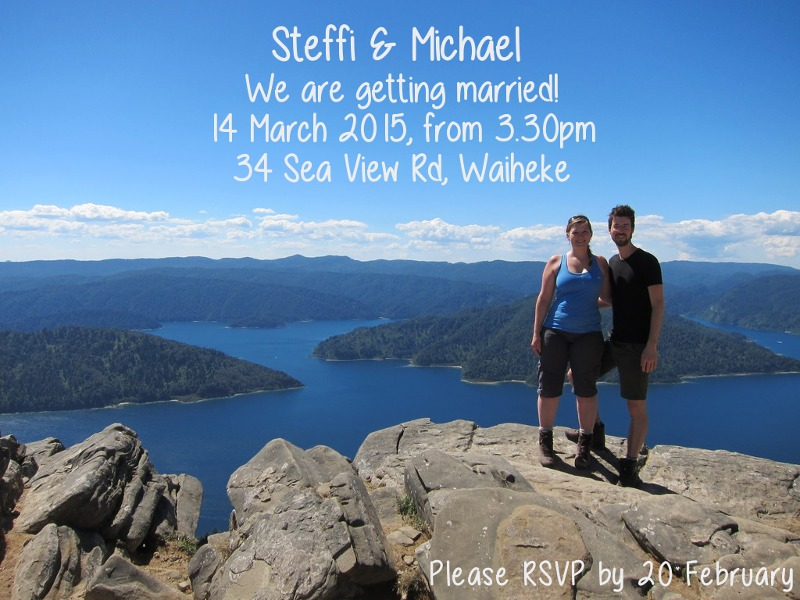
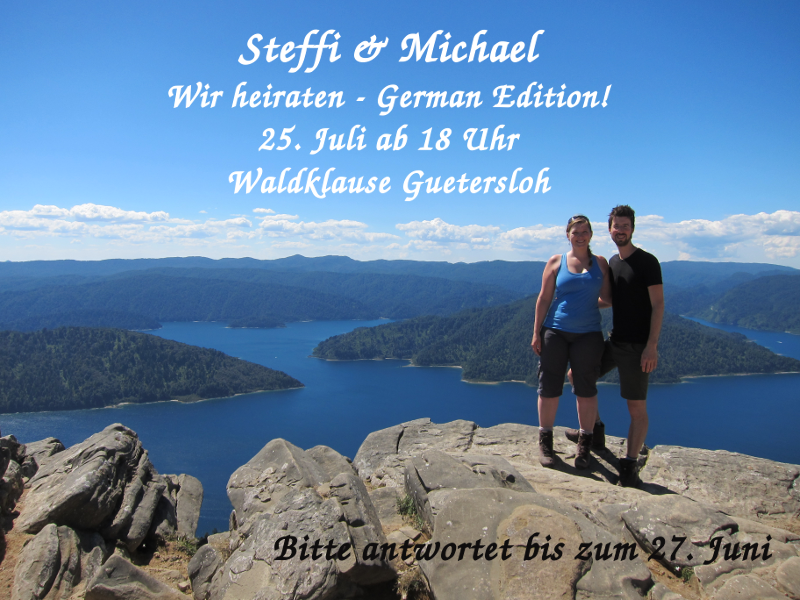
deutsche seite

Changed region(s): [[0.2188, 0.03, 0.7812, 0.33], [0.3438, 0.87, 1.0, 0.99]]

diff --git a/index.html b/index.html
@@ -69,10 +69,10 @@
 							<ul class="sf-menu">
 								<li class="current men"><a onClick="goToByScroll('page1'); return false;" href="#">Top</a> <strong class="hover"></strong></li>
 								<li class="men1"><a onClick="goToByScroll('page2'); return false;" href="#">10 Jahre</a> <strong class="hover"></strong></li>
-								<li class="men3"><a onClick="goToByScroll('page3'); return false;" href="#">Wo und wann</a><strong class="hover"></strong></li>
-								<li class="men6"><a onClick="goToByScroll('page4'); return false;" href="#">Geschenke</a> <strong class="hover"></strong></li>
-								<li class="men7"><a onClick="goToByScroll('page5'); return false;" href="#">Kontakt</a> <strong class="hover"></strong></li>
-								<li class="men8"><a onClick="goToByScroll('page6'); return false;" href="#">Antwort (RSVP)</a> <strong class="hover"></strong></li>
+								<li class="men3"><a onClick="goToByScroll('page3'); return false;" href="#">Hochzeit NZ</a><strong class="hover"></strong></li>
+								<li class="men3"><a onClick="goToByScroll('page4'); return false;" href="#">Hochzeit DE</a><strong class="hover"></strong></li>
+								<li class="men6"><a onClick="goToByScroll('page5'); return false;" href="#">Geschenke</a> <strong class="hover"></strong></li>
+								<li class="men7"><a onClick="goToByScroll('page6'); return false;" href="#">Antwort</a> <strong class="hover"></strong></li>
 							</ul>
 						</nav>
 						<div class="clear"></div>
@@ -114,21 +114,21 @@
                 <a href="images/big/2006-dsc00541.jpg" itemprop="contentUrl" data-size="1024x768">
                   <img src="images/thumbs/2006-dsc00541.jpg" itemprop="thumbnail" />
                 </a>
-                <figcaption itemprop="caption description">2006 - erster gemeinsamer Urlaub, Berchtesgarden</figcaption>
+                <figcaption itemprop="caption description">2006 - erster gemeinsamer Urlaub, Berchtesgaden</figcaption>
               </figure>
 
               <figure itemprop="associatedMedia" itemscope itemtype="http://schema.org/ImageObject">
                 <a href="images/big/2006-dsc00629.jpg" itemprop="contentUrl" data-size="1024x768">
                   <img src="images/thumbs/2006-dsc00629.jpg" itemprop="thumbnail" />
                 </a>
-                <figcaption itemprop="caption description">2006 - erster gemeinsamer Urlaub, Berchtesgarden</figcaption>
+                <figcaption itemprop="caption description">2006 - erster gemeinsamer Urlaub, Berchtesgaden</figcaption>
               </figure>
 
               <figure itemprop="associatedMedia" itemscope itemtype="http://schema.org/ImageObject">
                 <a href="images/big/2006-DSC08653.jpg" itemprop="contentUrl" data-size="1024x1365">
                   <img src="images/thumbs/2006-DSC08653.jpg" class="portrait" itemprop="thumbnail" />
                 </a>
-                <figcaption itemprop="caption description">2006 - Sylvester Themenfeier Nutten und Zuhaelter, Paderborn</figcaption>
+                <figcaption itemprop="caption description">2006 - Sylvester, Paderborn</figcaption>
               </figure>
 
               <figure itemprop="associatedMedia" itemscope itemtype="http://schema.org/ImageObject">
@@ -142,7 +142,14 @@
                 <a href="images/big/2007-cape-shank2.JPG" itemprop="contentUrl" data-size="1024x1365">
                   <img src="images/thumbs/2007-cape-shank2.JPG" class="portrait" itemprop="thumbnail" />
                 </a>
-                <figcaption itemprop="caption description">2007 - Cape Shank, Melbourne, Australia</figcaption>
+                <figcaption itemprop="caption description">2007 - Cape Shank, Melbourne, Australien</figcaption>
+              </figure>
+
+              <figure itemprop="associatedMedia" itemscope itemtype="http://schema.org/ImageObject">
+                <a href="images/big/2007-cape-shank.JPG" itemprop="contentUrl" data-size="1024x768">
+                  <img src="images/thumbs/2007-cape-shank.JPG" itemprop="thumbnail" />
+                </a>
+                <figcaption itemprop="caption description">2007 - Cape Shank, Melbourne, Australien</figcaption>
               </figure>
 
               <figure itemprop="associatedMedia" itemscope itemtype="http://schema.org/ImageObject">
@@ -153,17 +160,10 @@
               </figure>
 
               <figure itemprop="associatedMedia" itemscope itemtype="http://schema.org/ImageObject">
-                <a href="images/big/2007-cape-shank.JPG" itemprop="contentUrl" data-size="1024x768">
-                  <img src="images/thumbs/2007-cape-shank.JPG" itemprop="thumbnail" />
-                </a>
-                <figcaption itemprop="caption description">2007 - Cape Shank, Melbourne, Australia</figcaption>
-              </figure>
-
-              <figure itemprop="associatedMedia" itemscope itemtype="http://schema.org/ImageObject">
                 <a href="images/big/2007-DSC04332.JPG" itemprop="contentUrl" data-size="1024x768">
                   <img src="images/thumbs/2007-DSC04332.JPG" itemprop="thumbnail" />
                 </a>
-                <figcaption itemprop="caption description">2007 - Steffi's Geburtstagsfeier, Thema: Gedichte</figcaption>
+                <figcaption itemprop="caption description">2007 - Steffi's Geburtstagsfeier, Thema Maerchen</figcaption>
               </figure>
 
               <figure itemprop="associatedMedia" itemscope itemtype="http://schema.org/ImageObject">
@@ -177,7 +177,7 @@
                 <a href="images/big/2008-DSC06371.JPG" itemprop="contentUrl" data-size="1024x768">
                   <img src="images/thumbs/2008-DSC06371.JPG" itemprop="thumbnail" />
                 </a>
-                <figcaption itemprop="caption description">2008 - Victoriafaelle, Zambia</figcaption>
+                <figcaption itemprop="caption description">2008 - Victoriafaelle, Sambia</figcaption>
               </figure>
 
               <figure itemprop="associatedMedia" itemscope itemtype="http://schema.org/ImageObject">
@@ -191,7 +191,7 @@
                 <a href="images/big/2008-DSC08080.JPG" itemprop="contentUrl" data-size="1024x768">
                   <img src="images/thumbs/2008-DSC08080.JPG" itemprop="thumbnail" />
                 </a>
-                <figcaption itemprop="caption description">2008 - Versaille, Frankreich</figcaption>
+                <figcaption itemprop="caption description">2008 - Versailles, Frankreich</figcaption>
               </figure>
 
               <figure itemprop="associatedMedia" itemscope itemtype="http://schema.org/ImageObject">
@@ -205,7 +205,7 @@
                 <a href="images/big/2008-IMG_0854.JPG" itemprop="contentUrl" data-size="1024x768">
                   <img src="images/thumbs/2008-IMG_0854.JPG" itemprop="thumbnail" />
                 </a>
-                <figcaption itemprop="caption description">2008 - Geburtstagsfeier, Thema: Doppelganger, Hannover</figcaption>
+                <figcaption itemprop="caption description">2008 - Geburtstagsfeier, Thema Doppelgaenger, Bielefeld</figcaption>
               </figure>
 
               <figure itemprop="associatedMedia" itemscope itemtype="http://schema.org/ImageObject">
@@ -226,21 +226,21 @@
                 <a href="images/big/2009-P1020484.JPG" itemprop="contentUrl" data-size="1024x768">
                   <img src="images/thumbs/2009-P1020484.JPG" itemprop="thumbnail" />
                 </a>
-                <figcaption itemprop="caption description">2009 - Anden, Bolivia</figcaption>
+                <figcaption itemprop="caption description">2009 - Anden, Bolivien</figcaption>
               </figure>
 
               <figure itemprop="associatedMedia" itemscope itemtype="http://schema.org/ImageObject">
                 <a href="images/big/2010-DSC00316.JPG" itemprop="contentUrl" data-size="1024x1365">
                   <img src="images/thumbs/2010-DSC00316.JPG" class="portrait" itemprop="thumbnail" />
                 </a>
-                <figcaption itemprop="caption description">2010 - tschuess Deutschland, hello UK party, Verl</figcaption>
+                <figcaption itemprop="caption description">2010 - Tschuess Deutschland, Hello UK Party, Verl</figcaption>
               </figure>
 
               <figure itemprop="associatedMedia" itemscope itemtype="http://schema.org/ImageObject">
                 <a href="images/big/2009-mongoparty09_36.jpg" itemprop="contentUrl" data-size="1024x1678">
                   <img src="images/thumbs/2009-mongoparty09_36.jpg" class="portrait"  itemprop="thumbnail" />
                 </a>
-                <figcaption itemprop="caption description">2009 - Geburtstagsfeier, Thema: Zeichentrick, Hannover</figcaption>
+                <figcaption itemprop="caption description">2009 - Geburtstagsfeier, Thema Cartoons, Hannover</figcaption>
               </figure>
 
               <figure itemprop="associatedMedia" itemscope itemtype="http://schema.org/ImageObject">
@@ -275,7 +275,7 @@
                 <a href="images/big/2011-P1060305.JPG" itemprop="contentUrl" data-size="1024x1365">
                   <img src="images/thumbs/2011-P1060305.JPG" class="portrait" itemprop="thumbnail" />
                 </a>
-                <figcaption itemprop="caption description">2011 - Taj Mahal, Agra, India</figcaption>
+                <figcaption itemprop="caption description">2011 - Taj Mahal, Agra, Indien</figcaption>
               </figure>
 
               <figure itemprop="associatedMedia" itemscope itemtype="http://schema.org/ImageObject">
@@ -289,7 +289,7 @@
                 <a href="images/big/2012-P1070068.JPG" itemprop="contentUrl" data-size="1024x1365">
                   <img src="images/thumbs/2012-P1070068.JPG" class="portrait" itemprop="thumbnail" />
                 </a>
-                <figcaption itemprop="caption description">2012 - Hochzeit von Freunden, Verl</figcaption>
+                <figcaption itemprop="caption description">2012 - Kathi's und Andreas' Hochzeit, Verl</figcaption>
               </figure>
 
               <figure itemprop="associatedMedia" itemscope itemtype="http://schema.org/ImageObject">
@@ -317,14 +317,14 @@
                 <a href="images/big/2012-P1060911.JPG" itemprop="contentUrl" data-size="1024x768">
                   <img src="images/thumbs/2012-P1060911.JPG" itemprop="thumbnail" />
                 </a>
-                <figcaption itemprop="caption description">2012 - Skulpturen Wanderweg, Tawharanui, Neuseeland</figcaption>
+                <figcaption itemprop="caption description">2012 - Skulpturen-Wanderweg, Tawharanui, Neuseeland</figcaption>
               </figure>
 
               <figure itemprop="associatedMedia" itemscope itemtype="http://schema.org/ImageObject">
                 <a href="images/big/2013-DSC_1212.JPG" itemprop="contentUrl" data-size="1024x687">
                   <img src="images/thumbs/2013-DSC_1212.JPG" itemprop="thumbnail" />
                 </a>
-                <figcaption itemprop="caption description">2013 - Walbeobachten, Kaikoura, Neuseeland</figcaption>
+                <figcaption itemprop="caption description">2013 - Whale Watching, Kaikoura, Neuseeland</figcaption>
               </figure>
 
               <figure itemprop="associatedMedia" itemscope itemtype="http://schema.org/ImageObject">
@@ -373,7 +373,7 @@
                 <a href="images/big/2014-IMG_20140927_155834.jpg" itemprop="contentUrl" data-size="1024x1365">
                   <img src="images/thumbs/2014-IMG_20140927_155834.jpg" class="portrait" itemprop="thumbnail" />
                 </a>
-                <figcaption itemprop="caption description">2014 - Alpin-Schneetrainung, Mount Ruapehu, Neuseeland</figcaption>
+                <figcaption itemprop="caption description">2014 - Alpines Schneetraining, Mount Ruapehu, Neuseeland</figcaption>
               </figure>
 
               <figure itemprop="associatedMedia" itemscope itemtype="http://schema.org/ImageObject">
@@ -387,7 +387,7 @@
                 <a href="images/big/2014-IMG_3012.JPG" itemprop="contentUrl" data-size="1024x768">
                   <img src="images/thumbs/2014-IMG_3012.JPG" itemprop="thumbnail" />
                 </a>
-                <figcaption itemprop="caption description">2014 - Langtang trek, Nepal</figcaption>
+                <figcaption itemprop="caption description">2014 - Langtang Trek, Nepal</figcaption>
               </figure>
 
               <figure itemprop="associatedMedia" itemscope itemtype="http://schema.org/ImageObject">
@@ -408,7 +408,7 @@
                 <a href="images/big/2014-IMG_0141.JPG" itemprop="contentUrl" data-size="1024x768">
                   <img src="images/thumbs/2014-IMG_0141.JPG" itemprop="thumbnail" />
                 </a>
-                <figcaption itemprop="caption description">2014 - Steffi's PhD graduation, Auckland, Neuseeland</figcaption>
+                <figcaption itemprop="caption description">2014 - Steffi's PhD Graduation, Auckland, Neuseeland</figcaption>
               </figure>
 
               <figure itemprop="associatedMedia" itemscope itemtype="http://schema.org/ImageObject">
@@ -526,19 +526,133 @@
 		<div id="page3" class="content">
 			<div class="container_12">
 				<div class="grid_12">
-          <h3 style="background: url('images/1_accommodation.png') no-repeat 0px 0px; padding-left: 63px;">Wo und Wann</h3>
+          <h3 style="background: url('images/1_accommodation.png') no-repeat 0px 0px; padding-left: 63px;">Hochzeit in Neuseeland</h3>
 						<div class="text1">
-              TODO The ceremony will start at 4pm. Please arrive at the venue by 3.30pm at the latest, which means taking the ferry from Auckland at 2pm or earlier. The ceremony will be followed by ice cream, drinks, dinner and dancing until around midnight.
-              You can find out about accommodation options on:
-              <ul>
-                <li><a href="http://www.bookabach.co.nz/baches-and-holiday-homes/search/locale/waiheke-island">Bookabach</a></li>
-                <li><a href="http://gotowaiheke.co.nz/listings/waiheke_accommodation/">Goto Waiheke</a></li>
-                <li><a href="http://kinabackpackers.co.nz/">Kina Backpackers</a></li>
-              </ul>
+              <p>
+                Am 14. Maerz 2015 (Pi Day) haben wir auf Waiheke Island bei Auckland YES gesagt :-) <br/>
+                Hier ein paar Eindruecke:
+              </p>
+            </div>
 
-              <br/>
-There is also an option for camping at the venue. Please let us know if
-you are interested in this in your RSVP.
+            <div class="my-simple-gallery" itemscope itemtype="http://schema.org/ImageGallery">
+              <figure itemprop="associatedMedia" itemscope itemtype="http://schema.org/ImageObject"> 
+                <a href="images/big/tt_SMP08_08.jpg" itemprop="contentUrl" data-size="685x1024"> 
+                  <img src="images/thumbs/tt_SMP08_08.jpg" itemprop="thumbnail" /> 
+                </a> 
+                <figcaption itemprop="caption description"></figcaption> 
+              </figure>
+
+              <figure itemprop="associatedMedia" itemscope itemtype="http://schema.org/ImageObject"> 
+                <a href="images/big/tt_SMP04_01.jpg" itemprop="contentUrl" data-size="685x1024"> 
+                  <img src="images/thumbs/tt_SMP04_01.jpg" itemprop="thumbnail" /> 
+                </a> 
+                <figcaption itemprop="caption description"></figcaption> 
+              </figure>
+
+              <figure itemprop="associatedMedia" itemscope itemtype="http://schema.org/ImageObject"> 
+                <a href="images/big/tt_SMP09_52.jpg" itemprop="contentUrl" data-size="685x1024"> 
+                  <img src="images/thumbs/tt_SMP09_52.jpg" itemprop="thumbnail" /> 
+                </a> 
+                <figcaption itemprop="caption description"></figcaption> 
+              </figure>
+
+              <figure itemprop="associatedMedia" itemscope itemtype="http://schema.org/ImageObject"> 
+                <a href="images/big/tt_SMP07_05.jpg" itemprop="contentUrl" data-size="1024x684"> 
+                  <img src="images/thumbs/tt_SMP07_05.jpg" itemprop="thumbnail" /> 
+                </a> 
+                <figcaption itemprop="caption description"></figcaption> 
+              </figure>
+
+              <figure itemprop="associatedMedia" itemscope itemtype="http://schema.org/ImageObject"> 
+                <a href="images/big/tt_SMP09_28.jpg" itemprop="contentUrl" data-size="1024x684"> 
+                  <img src="images/thumbs/tt_SMP09_28.jpg" itemprop="thumbnail" /> 
+                </a> 
+                <figcaption itemprop="caption description"></figcaption> 
+              </figure>
+
+              <figure itemprop="associatedMedia" itemscope itemtype="http://schema.org/ImageObject"> 
+                <a href="images/big/tt_SMP10_22.jpg" itemprop="contentUrl" data-size="1024x684"> 
+                  <img src="images/thumbs/tt_SMP10_22.jpg" itemprop="thumbnail" /> 
+                </a> 
+                <figcaption itemprop="caption description"></figcaption> 
+              </figure>
+
+              <figure itemprop="associatedMedia" itemscope itemtype="http://schema.org/ImageObject"> 
+                <a href="images/big/tt_SMP09_64.jpg" itemprop="contentUrl" data-size="1024x684"> 
+                  <img src="images/thumbs/tt_SMP09_64.jpg" itemprop="thumbnail" /> 
+                </a> 
+                <figcaption itemprop="caption description"></figcaption> 
+              </figure>
+
+              <figure itemprop="associatedMedia" itemscope itemtype="http://schema.org/ImageObject"> 
+                <a href="images/big/tt_SMP09_77.jpg" itemprop="contentUrl" data-size="1024x684"> 
+                  <img src="images/thumbs/tt_SMP09_77.jpg" itemprop="thumbnail" /> 
+                </a> 
+                <figcaption itemprop="caption description"></figcaption> 
+              </figure>
+
+              <figure itemprop="associatedMedia" itemscope itemtype="http://schema.org/ImageObject"> 
+                <a href="images/big/tt_SMP13_105.jpg" itemprop="contentUrl" data-size="1024x684"> 
+                  <img src="images/thumbs/tt_SMP13_105.jpg" itemprop="thumbnail" /> 
+                </a> 
+                <figcaption itemprop="caption description"></figcaption> 
+              </figure>
+
+              <figure itemprop="associatedMedia" itemscope itemtype="http://schema.org/ImageObject"> 
+                <a href="images/big/tt_SMP10_06.jpg" itemprop="contentUrl" data-size="684x1024"> 
+                  <img src="images/thumbs/tt_SMP10_06.jpg" itemprop="thumbnail" /> 
+                </a> 
+                <figcaption itemprop="caption description"></figcaption> 
+              </figure>
+
+              <figure itemprop="associatedMedia" itemscope itemtype="http://schema.org/ImageObject"> 
+                <a href="images/big/tt_SMP11_09.jpg" itemprop="contentUrl" data-size="684x1024"> 
+                  <img src="images/thumbs/tt_SMP11_09.jpg" itemprop="thumbnail" /> 
+                </a> 
+                <figcaption itemprop="caption description"></figcaption> 
+              </figure>
+
+              <figure itemprop="associatedMedia" itemscope itemtype="http://schema.org/ImageObject"> 
+                <a href="images/big/tt_SMP11_38.jpg" itemprop="contentUrl" data-size="684x1024"> 
+                  <img src="images/thumbs/tt_SMP11_38.jpg" itemprop="thumbnail" /> 
+                </a> 
+                <figcaption itemprop="caption description"></figcaption> 
+              </figure>
+
+              <figure itemprop="associatedMedia" itemscope itemtype="http://schema.org/ImageObject"> 
+                <a href="images/big/tt_SMP13_120.jpg" itemprop="contentUrl" data-size="684x1024"> 
+                  <img src="images/thumbs/tt_SMP13_120.jpg" itemprop="thumbnail" /> 
+                </a> 
+                <figcaption itemprop="caption description"></figcaption> 
+              </figure>
+
+              <figure itemprop="associatedMedia" itemscope itemtype="http://schema.org/ImageObject"> 
+                <a href="images/big/tt_SMP11_71.jpg" itemprop="contentUrl" data-size="1024x684"> 
+                  <img src="images/thumbs/tt_SMP11_71.jpg" itemprop="thumbnail" /> 
+                </a> 
+                <figcaption itemprop="caption description"></figcaption> 
+              </figure>
+
+              <figure itemprop="associatedMedia" itemscope itemtype="http://schema.org/ImageObject"> 
+                <a href="images/big/tt_SMP12_20.jpg" itemprop="contentUrl" data-size="1024x684"> 
+                  <img src="images/thumbs/tt_SMP12_20.jpg" itemprop="thumbnail" /> 
+                </a> 
+                <figcaption itemprop="caption description"></figcaption> 
+              </figure>
+
+              <figure itemprop="associatedMedia" itemscope itemtype="http://schema.org/ImageObject"> 
+                <a href="images/big/tt_SMP15_03.jpg" itemprop="contentUrl" data-size="1024x684"> 
+                  <img src="images/thumbs/tt_SMP15_03.jpg" itemprop="thumbnail" /> 
+              </a> 
+                <figcaption itemprop="caption description"></figcaption> 
+              </figure>
+
+              <figure itemprop="associatedMedia" itemscope itemtype="http://schema.org/ImageObject"> 
+                <a href="images/big/tt_SMP14_28.jpg" itemprop="contentUrl" data-size="1024x684"> 
+                  <img src="images/thumbs/tt_SMP14_28.jpg" itemprop="thumbnail" /> 
+                </a> 
+                <figcaption itemprop="caption description"></figcaption> 
+              </figure>
           </div>
 				</div>
 				<div class="clear"></div>
@@ -547,9 +661,12 @@ you are interested in this in your RSVP.
 		<div id="page4" class="content">
 			<div class="container_12">
 				<div class="grid_12">
-          <h3 style="background: url('images/1_gift.png') no-repeat; padding-left: 60px;">Geschenke</h3>
-          <div class="text1">
-            Das groesste Geschenk dass ihr uns machen koennt ist zu kommen. Anonsten gilt: da wir in Neuseeland leben sind Geldgeschenke am praktischsten. 
+          <h3 style="background: url('images/1_accommodation.png') no-repeat 0px 0px; padding-left: 63px;">Hochzeit in Deutschland</h3>
+						<div class="text1">
+              Die grosse Sause steigt am 25. Juli ab 18 Uhr in der <a href="http://www.hotel-waldklause.de">Waldklause</a> in Guetersloh. <br/>
+              Die Adresse ist: Hotel-Restaurant Waldklause, Spexarder Str. 205, 33334 Gütersloh. <br/><br/>
+              
+              Ihr koennt dort auch uebernachten, Preise und Reservierungsformular findet ihr <a href="http://www.hotel-waldklause.de/reservierung.php">online</a> oder unter 05241 97630. Bitte gebt bei der Reservierung an, dass ihr zu uns gehoert.<br/><br/>
           </div>
 				</div>
 				<div class="clear"></div>
@@ -558,17 +675,9 @@ you are interested in this in your RSVP.
 		<div id="page5" class="content">
 			<div class="container_12">
 				<div class="grid_12">
-          <h3 style="background: url('images/1_contact.png') no-repeat 0px 5px; padding-left: 90px;">Kontakt</h3>
-						<div class="text1">
-              <p>
-                <a href="mailto:michael@michaelpollmeier.com">Michael</a> - 021 499081<br/>
-                <a href="mailto:stefanie.hittmeyer@auckland.ac.nz ">Steffi</a> - 022 0499081<br/>
-              </p>
-              <p>
-                Best Men:<br/>
-                <a href="mailto:ciscolay@gmail.com">Cisco Lay</a> - 021 747532<br/>
-                <a href="mailto:micdcosta@gmail.com">Michael D'Costa</a> - 027 9254852<br/>
-              </p>
+          <h3 style="background: url('images/1_gift.png') no-repeat; padding-left: 60px;">Geschenke</h3>
+          <div class="text1">
+            Das groesste Geschenk, das ihr uns machen koennt, ist mit uns zu feiern. Ansonsten gilt: da unser Kofferplatz begrenzt ist, sind Geldgeschenke am praktischsten. 
           </div>
 				</div>
 				<div class="clear"></div>
@@ -577,11 +686,16 @@ you are interested in this in your RSVP.
 		<div id="page6" class="content">
 			<div class="container_12">
 				<div class="grid_12">
-          <h3>TODO Please RSVP by <span style="text-decoration: blink; font-style: italic; font-weight: bold;">20 February</span></h3>
-          <iframe src="https://docs.google.com/forms/d/1Wo6Osx09WZlPA1a2S8VS-hfgYeNd4EYWBeG2IlW6h4g/viewform" width="600" height="860">
-            Please <a href="https://docs.google.com/forms/d/1Wo6Osx09WZlPA1a2S8VS-hfgYeNd4EYWBeG2IlW6h4g/viewform">Antwort (RSVP)</a>.
-          </iframe>
+          <h3 style="background: url('images/1_contact.png') no-repeat 0px 5px; padding-left: 90px;">Antwort</h3>
+						<div class="text1">
+              <p>Bitte sagt uns bis 27. Juni Bescheid, ob ihr kommt. Entweder mit dem folgenden Antwortformular oder per <a href="mailto:steffiandmichael@michaelpollmeier.com">E-Mail</a>. 
+              </p>
+              <iframe src="https://docs.google.com/forms/d/1lZ8XpcMlUxA6QDRv25K9P1aTsdKBoCesXoVgW9AKD1U/viewform" width="600" height="860">
+                <a href="https://docs.google.com/forms/d/1lZ8XpcMlUxA6QDRv25K9P1aTsdKBoCesXoVgW9AKD1U/viewform">Antwort</a>.
+              </iframe>
+          </div>
 				</div>
+				<div class="clear"></div>
 			</div>
 		</div>
     <script src="js/photoswipe.min.js"></script> 
